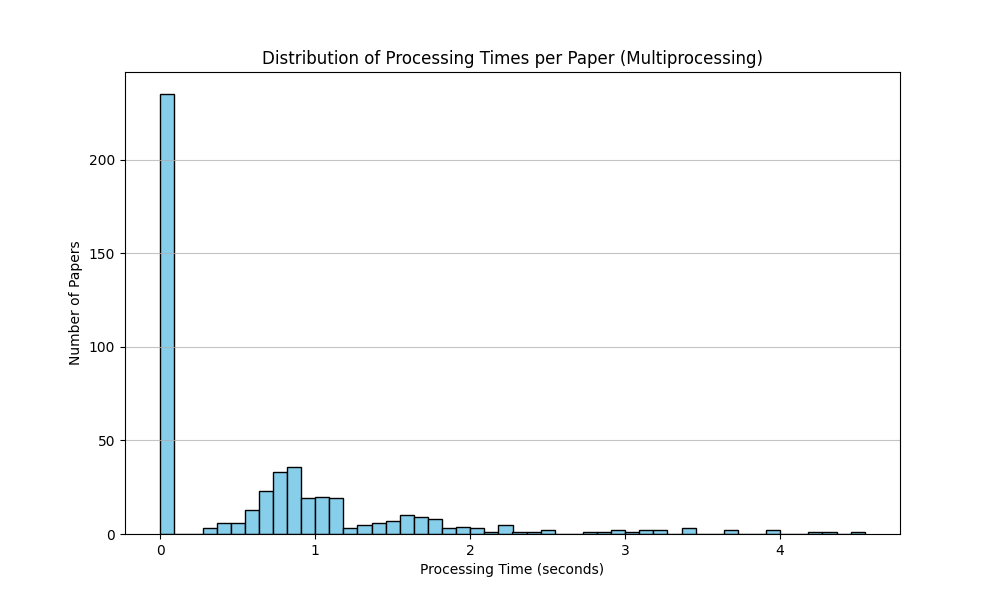
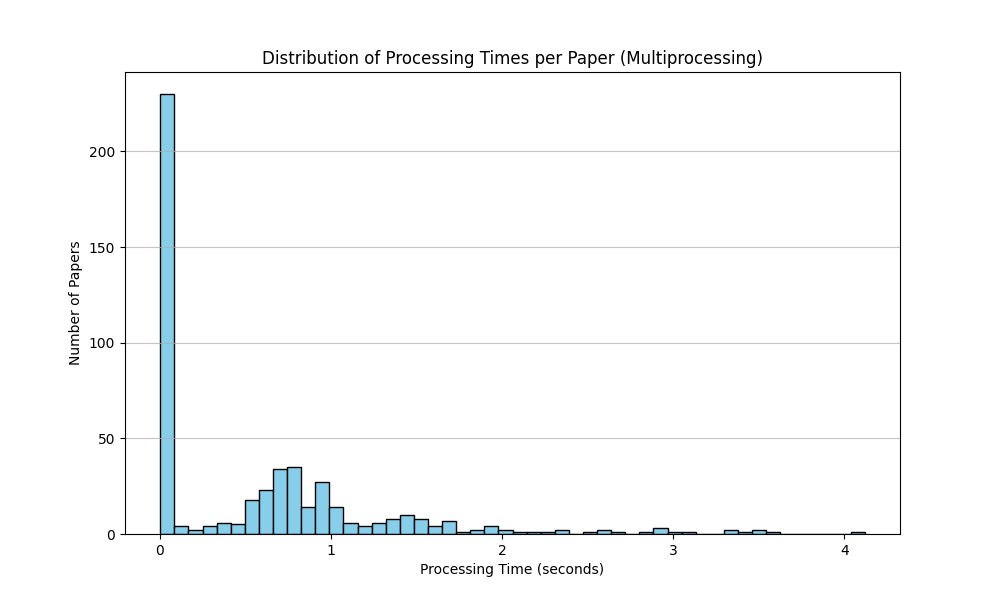
added some comments

diff --git a/src/pipeline_parquet.py b/src/pipeline_parquet.py
@@ -2,10 +2,15 @@ import pandas as pd
 import json
 import logging
 from pathlib import Path
+# Used to convert Python objects → string
 import jsonpickle
+import ai_fallback
+
 import time
 import matplotlib.pyplot as plt
+# Multiprocessing
 import concurrent.futures
+# Used to pass extra parameters to multiprocessing
 from functools import partial
 
 import extract_cmds
@@ -19,9 +24,12 @@ from definition.data.Author import Author
 logging.basicConfig(level=logging.INFO, format='%(asctime)s - %(message)s')
 logger = logging.getLogger("ParquetPipeline")
 
-
+# json_str: str , arxiv_id: str  = input
+# ArxivMetadata: output
+# reads arXiv metadata JSON and output it to ArxivMetadata
 def parse_metadata(json_str: str, arxiv_id: str) -> ArxivMetadata:
     try:
+        # converts str to dic
         data = json.loads(json_str)
 
         authors_list = []
@@ -49,25 +57,39 @@ def parse_metadata(json_str: str, arxiv_id: str) -> ArxivMetadata:
         return None
 
 
-# MUST BE AT TOP LEVEL FOR MACOS MULTIPROCESSING
+
 def process_single_paper(row, ror_orgs, ror_orgs_dict):
     """Handles the processing for a single row to be run in a separate process."""
     paper_start_time = time.perf_counter()
 
+    # extract data from row
     paper_id = row['id']
     full_latex_text = row['text']
     metadata_raw = row['metadata']
 
+    # parse the metadat
     meta_obj = parse_metadata(metadata_raw, paper_id)
+    # extract latex commands
     ext_cmds = extract_cmds.extract_cmds_from_string(full_latex_text)
+    # extract autor and affiliations
     ext_info = extract_author_aff.extract_affiliations_from_obj(ext_cmds, meta_obj)
+
+    # the AI fallback
+
+    """if ext_info is None:
+     logger.info(f"Traditional extraction failed for {paper_id}. Switching to AI Fallback...")
+     ext_info = ai_fallback.extract_with_ollama(full_latex_text, meta_obj)"""
+
 
     extracted_result = None
     matched_result = None
     status = "extraction_failed"
 
+
     if ext_info:
+        # convert to json
         extracted_result = jsonpickle.encode(ext_info)
+        # match org
         final_data = match_data.match_and_resolve_single_paper(
             meta_obj, ext_info, ror_orgs, ror_orgs_dict
         )
@@ -85,9 +107,11 @@ def process_single_paper(row, ror_orgs, ror_orgs_dict):
 
 
 def main():
-    INPUT_FILE = "math_only_sample_500.parquet"
+
+    INPUT_FILE = "math_subset.parquet"
     OUTPUT_FILE = "math_sample_processed.parquet"
 
+    # start time
     total_start_time = time.time()
 
     logger.info("Step 1: Loading ROR Dataset...")
@@ -96,30 +120,34 @@ def main():
     ror_orgs_dict = match_data._process_ror_orgs_to_dict(ror_dataset)
 
     logger.info(f"Step 2: Loading Input Parquet {INPUT_FILE}...")
+    # Loads file into pandas dataframe
     df = pd.read_parquet(INPUT_FILE)
     rows = df.to_dict("records")
 
+    # prepare the storage variables
     extracted_results_column = []
     matched_results_column = []
     paper_processing_times = []
+
     success_count = 0
     extraction_failed_count = 0
     matching_failed_count = 0
 
+    # the most important step
     logger.info("Step 3: Processing papers with Multiprocessing...")
     processing_start_time = time.time()
 
     # Create a partial function with the ROR data permanently attached to it
     worker_func = partial(process_single_paper, ror_orgs=ror_orgs, ror_orgs_dict=ror_orgs_dict)
 
-    # EXACTLY 4 PROCESSES FOR YOUR MAC
+
     MAX_CORES = 4
 
-    # We use a chunksize of 5. This is highly optimized for your specific histogram:
-    # It prevents the 40MB dict from being copied 500 individual times, but is small
-    # enough that no CPU core gets stuck with too many of those 3-second papers.
+
+    # Creates 4 parallel workers and Process papers in parallel
+    # chunksize = total_tasks / (cores × 4)   = 500 / (4 * 4 )
     with concurrent.futures.ProcessPoolExecutor(max_workers=MAX_CORES) as executor:
-        results = list(executor.map(worker_func, rows, chunksize=5))
+        results = list(executor.map(worker_func, rows, chunksize=30))
 
     # Unpack the results
     for ext_res, match_res, status, duration in results:
@@ -140,7 +168,7 @@ def main():
     logger.info(f"Processing time: {processing_time:.2f} seconds")
     logger.info(f"Processing time: {processing_time / 60:.2f} minutes")
 
-    # --- PLOTTING DIAGNOSTICS ---
+    # PLOTTING DIAGNOSTICS
     logger.info("Generating diagnostic plots...")
 
     plt.figure(figsize=(10, 6))

diff --git a/src/ai_fallback.py b/src/ai_fallback.py
@@ -1,32 +1,33 @@
 import logging
 import ollama
+# new library
 from pydantic import BaseModel
 from typing import List
-
-
 from definition.data.Author import Author as AIExtAuthor
+from definition.data.ExtAuthorData import ExtAuthorInfo, ExtResults
 
 _logger = logging.getLogger(__name__)
 
-
-# Pydantic Models
+# define the AuthorModel to pydantic
 class AuthorModel(BaseModel):
     name: str
     affiliations: List[str]
 
-
+# Validate AI output.
 class ExtractionResponse(BaseModel):
     authors: List[AuthorModel]
 
-
-def extract_with_ollama(text_content: str, model_name: str = "llama3.2") -> List[AIExtAuthor]:
+# text_content: str =  input
+# ExtAuthorInfo = output
+def extract_with_ollama(text_content: str, arxiv_metadata, model_name: str = "gemma3:1b") -> ExtAuthorInfo:
     """
-    Sends text to Ollama and enforces a structured JSON response containing authors and affiliations.
+    Sends text to Ollama and enforces a structured JSON response.
+    Returns an ExtAuthorInfo object to maintain compatibility with the pipeline.
     """
-    _logger.info(" Extraction using Ollama")
-    print(" test ")
+    _logger.info(f"AI Fallback extraction using Ollama for {arxiv_metadata.arxiv_id}")
 
-    # setting a length limits
+    # Setting a length limit for the prompt ( authors are usually at the top )
+    # where in latex files could find the part that we need ( it ques here try another method)
     text_input = text_content[:12000]
 
     try:
@@ -36,9 +37,13 @@ def extract_with_ollama(text_content: str, model_name: str = "llama3.2") -> List
                 {
                     'role': 'system',
                     'content': (
+                        # take a look Language Models are Few-Shot Learners
+                        # example ( snippet ) and give also the output
+                        # try different snippet
+                        # feed mt pydantic model to the prompt
                         "You are a precise data extraction assistant. "
-                        "Extract all authors and their affiliations from the provided LaTeX text."
-
+                        "Extract all authors and their affiliations from the provided LaTeX text. "
+                        "Respond ONLY with the JSON format requested."
                     )
                 },
                 {
@@ -46,18 +51,34 @@ def extract_with_ollama(text_content: str, model_name: str = "llama3.2") -> List
                     'content': text_input
                 }
             ],
-            #  super important
+            # This forces AI to follow the  structure
+            # add a temperature
             format=ExtractionResponse.model_json_schema()
         )
-
-        # The library returns the JSON content as a string in the message
+        # getting the AI response
         json_content = response['message']['content']
-
-        # Parse it using Pydantic
+        # validate response ( valid or not )
         parsed_data = ExtractionResponse.model_validate_json(json_content)
-        print("parse data ", parsed_data)
-@
-    except Exception as e: _logger.error(e)
 
-text_content = "hello "
-extract_with_ollama(text_content)
+        # Convert Pydantic models back to the project's Author objects
+        authors = [AIExtAuthor(name=a.name, affiliations=a.affiliations) for a in parsed_data.authors]
+
+        if authors:
+            # We wrap it in ExtResults with a score of 1.0 (AI confidence) to match the pipeline's expected structure
+            ext_results = [ExtResults(scheme_name="Ollama_AI_Fallback", authors=authors, score=1.0)]
+            # return the final object
+            return ExtAuthorInfo(ext_type="ai_fallback", extractions=ext_results)
+
+    except Exception as e:
+        _logger.error(f"Ollama extraction failed: {e}")
+
+    return None
+# resume logic because it will take 3.3 day to process the whole 12 GB , after 6 days
+# smaller context windows
+# less token pass it ( use the right tokenizer )
+# Mistral
+# manually inspect the sucees rate
+# see the time for every row
+# generate a new new parquet file that see the average time
+# try different prompt
+# imaginary
